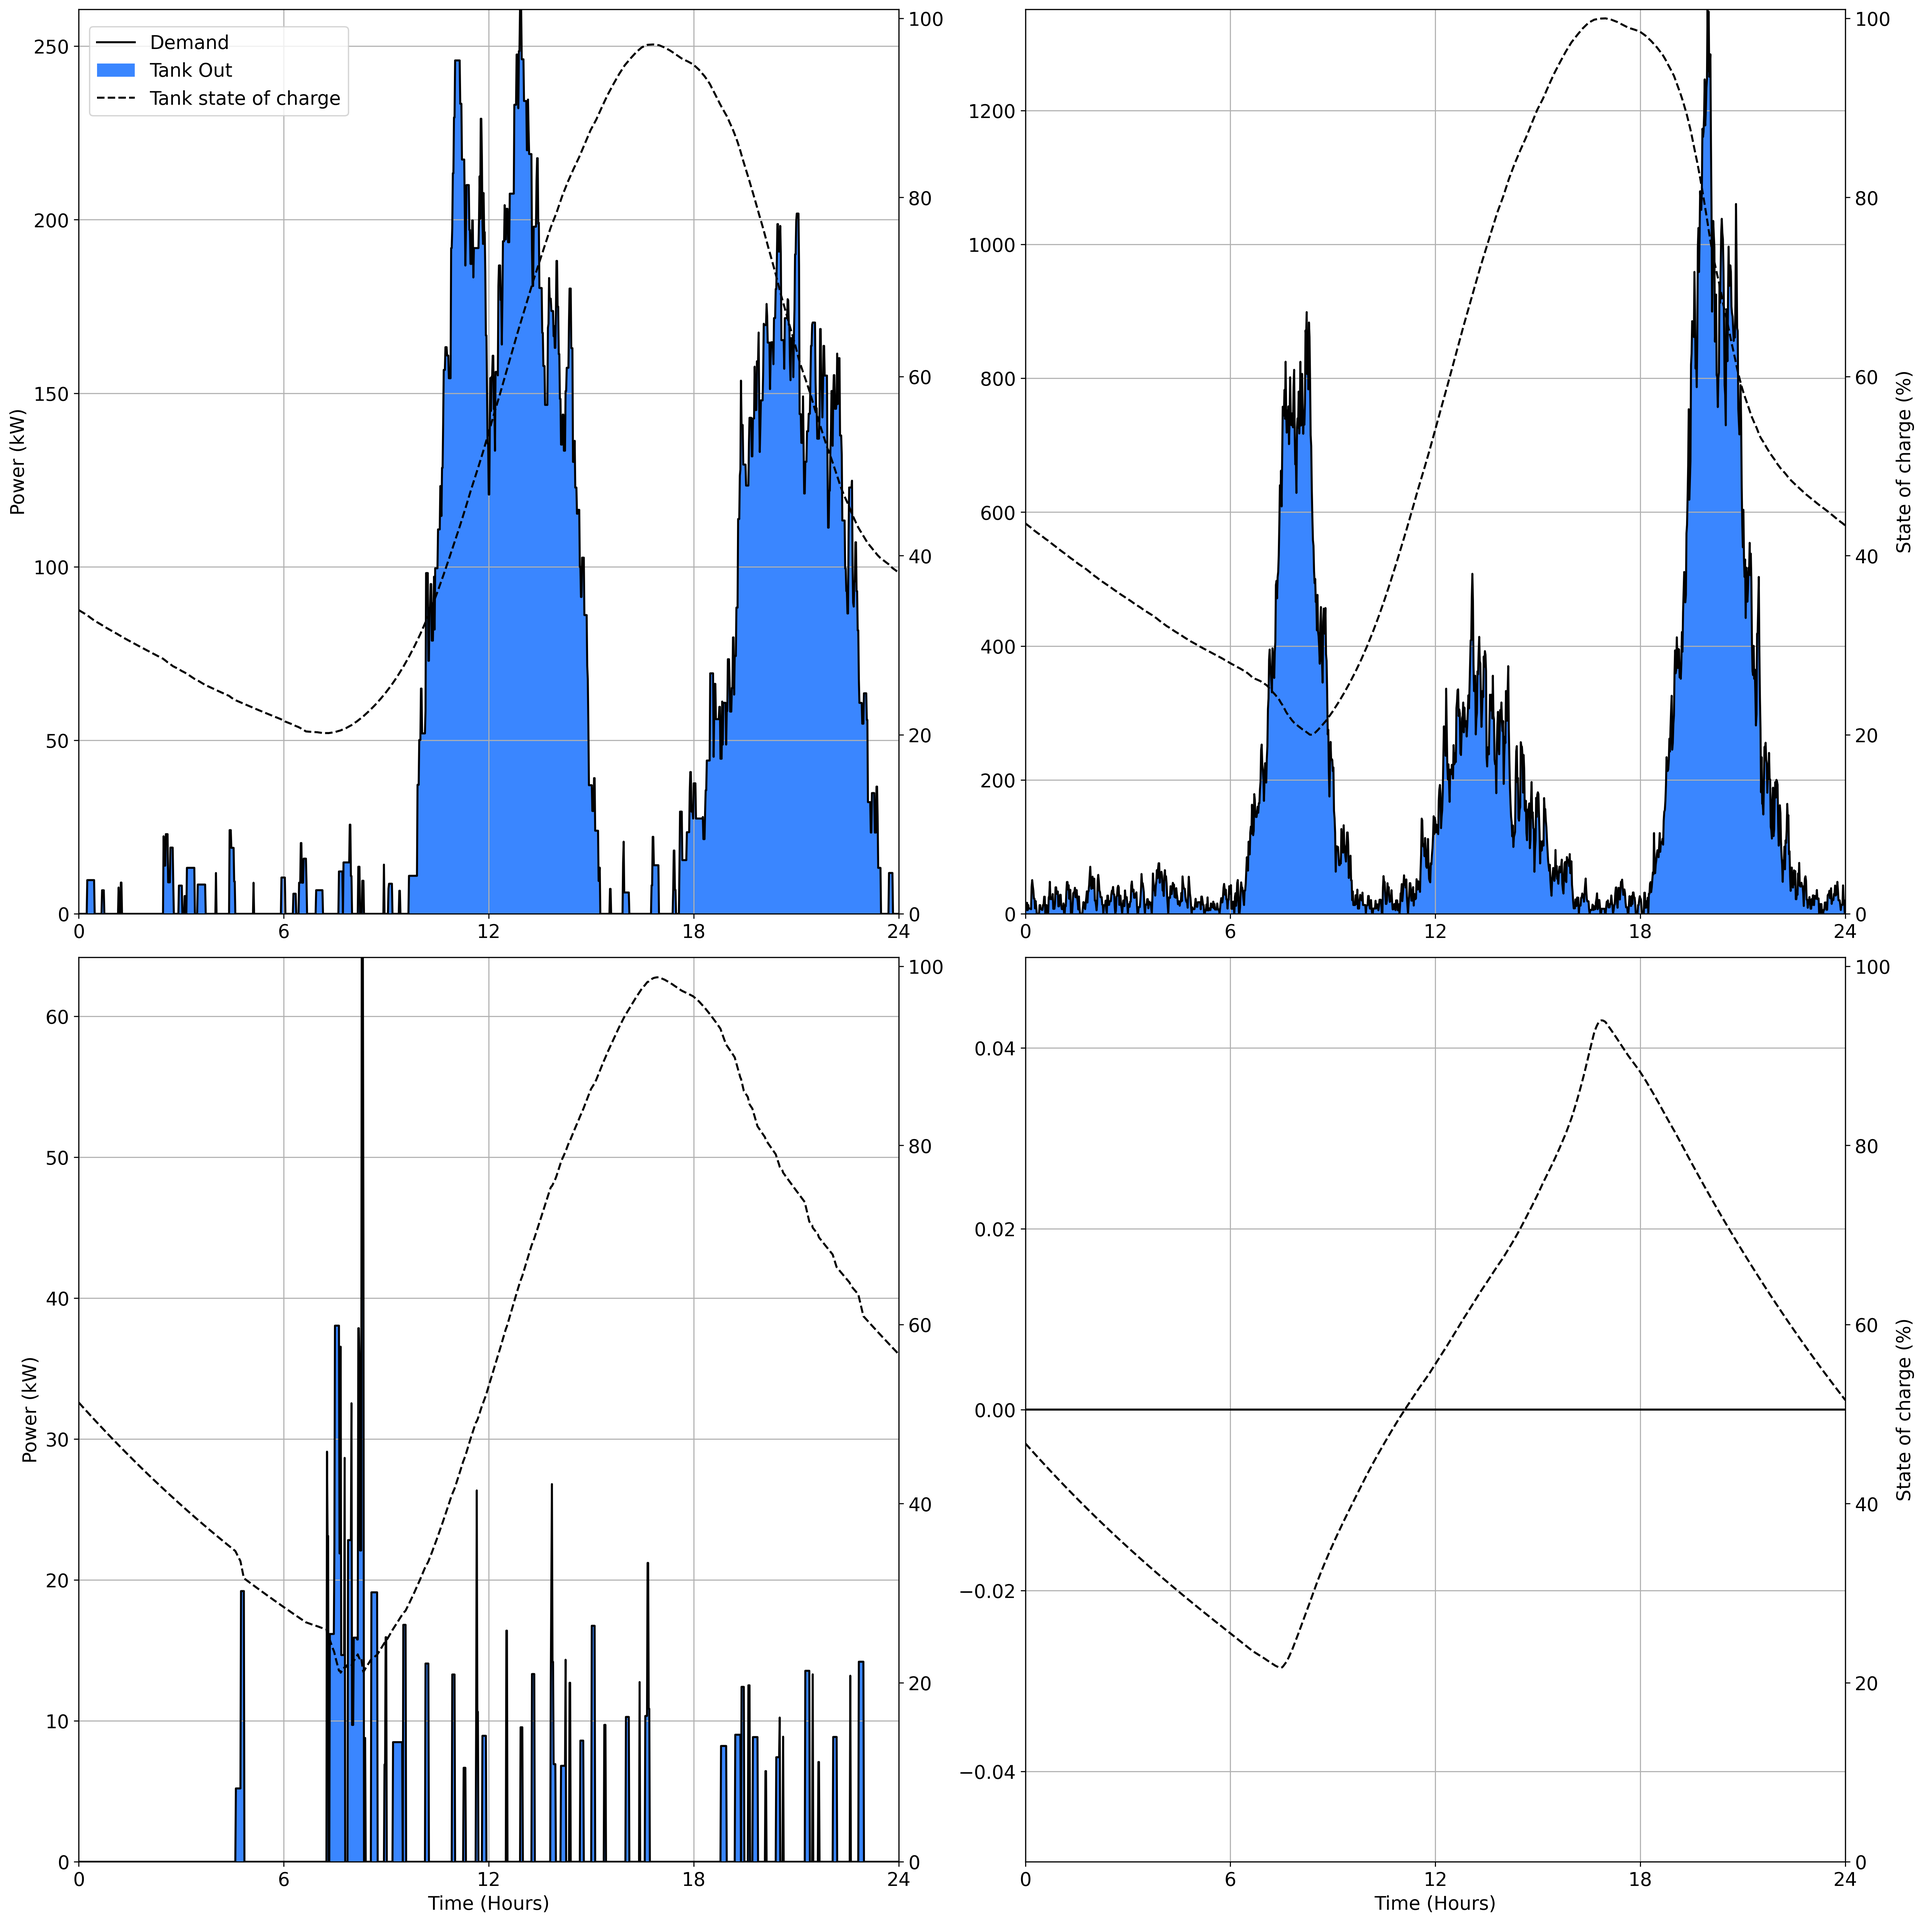
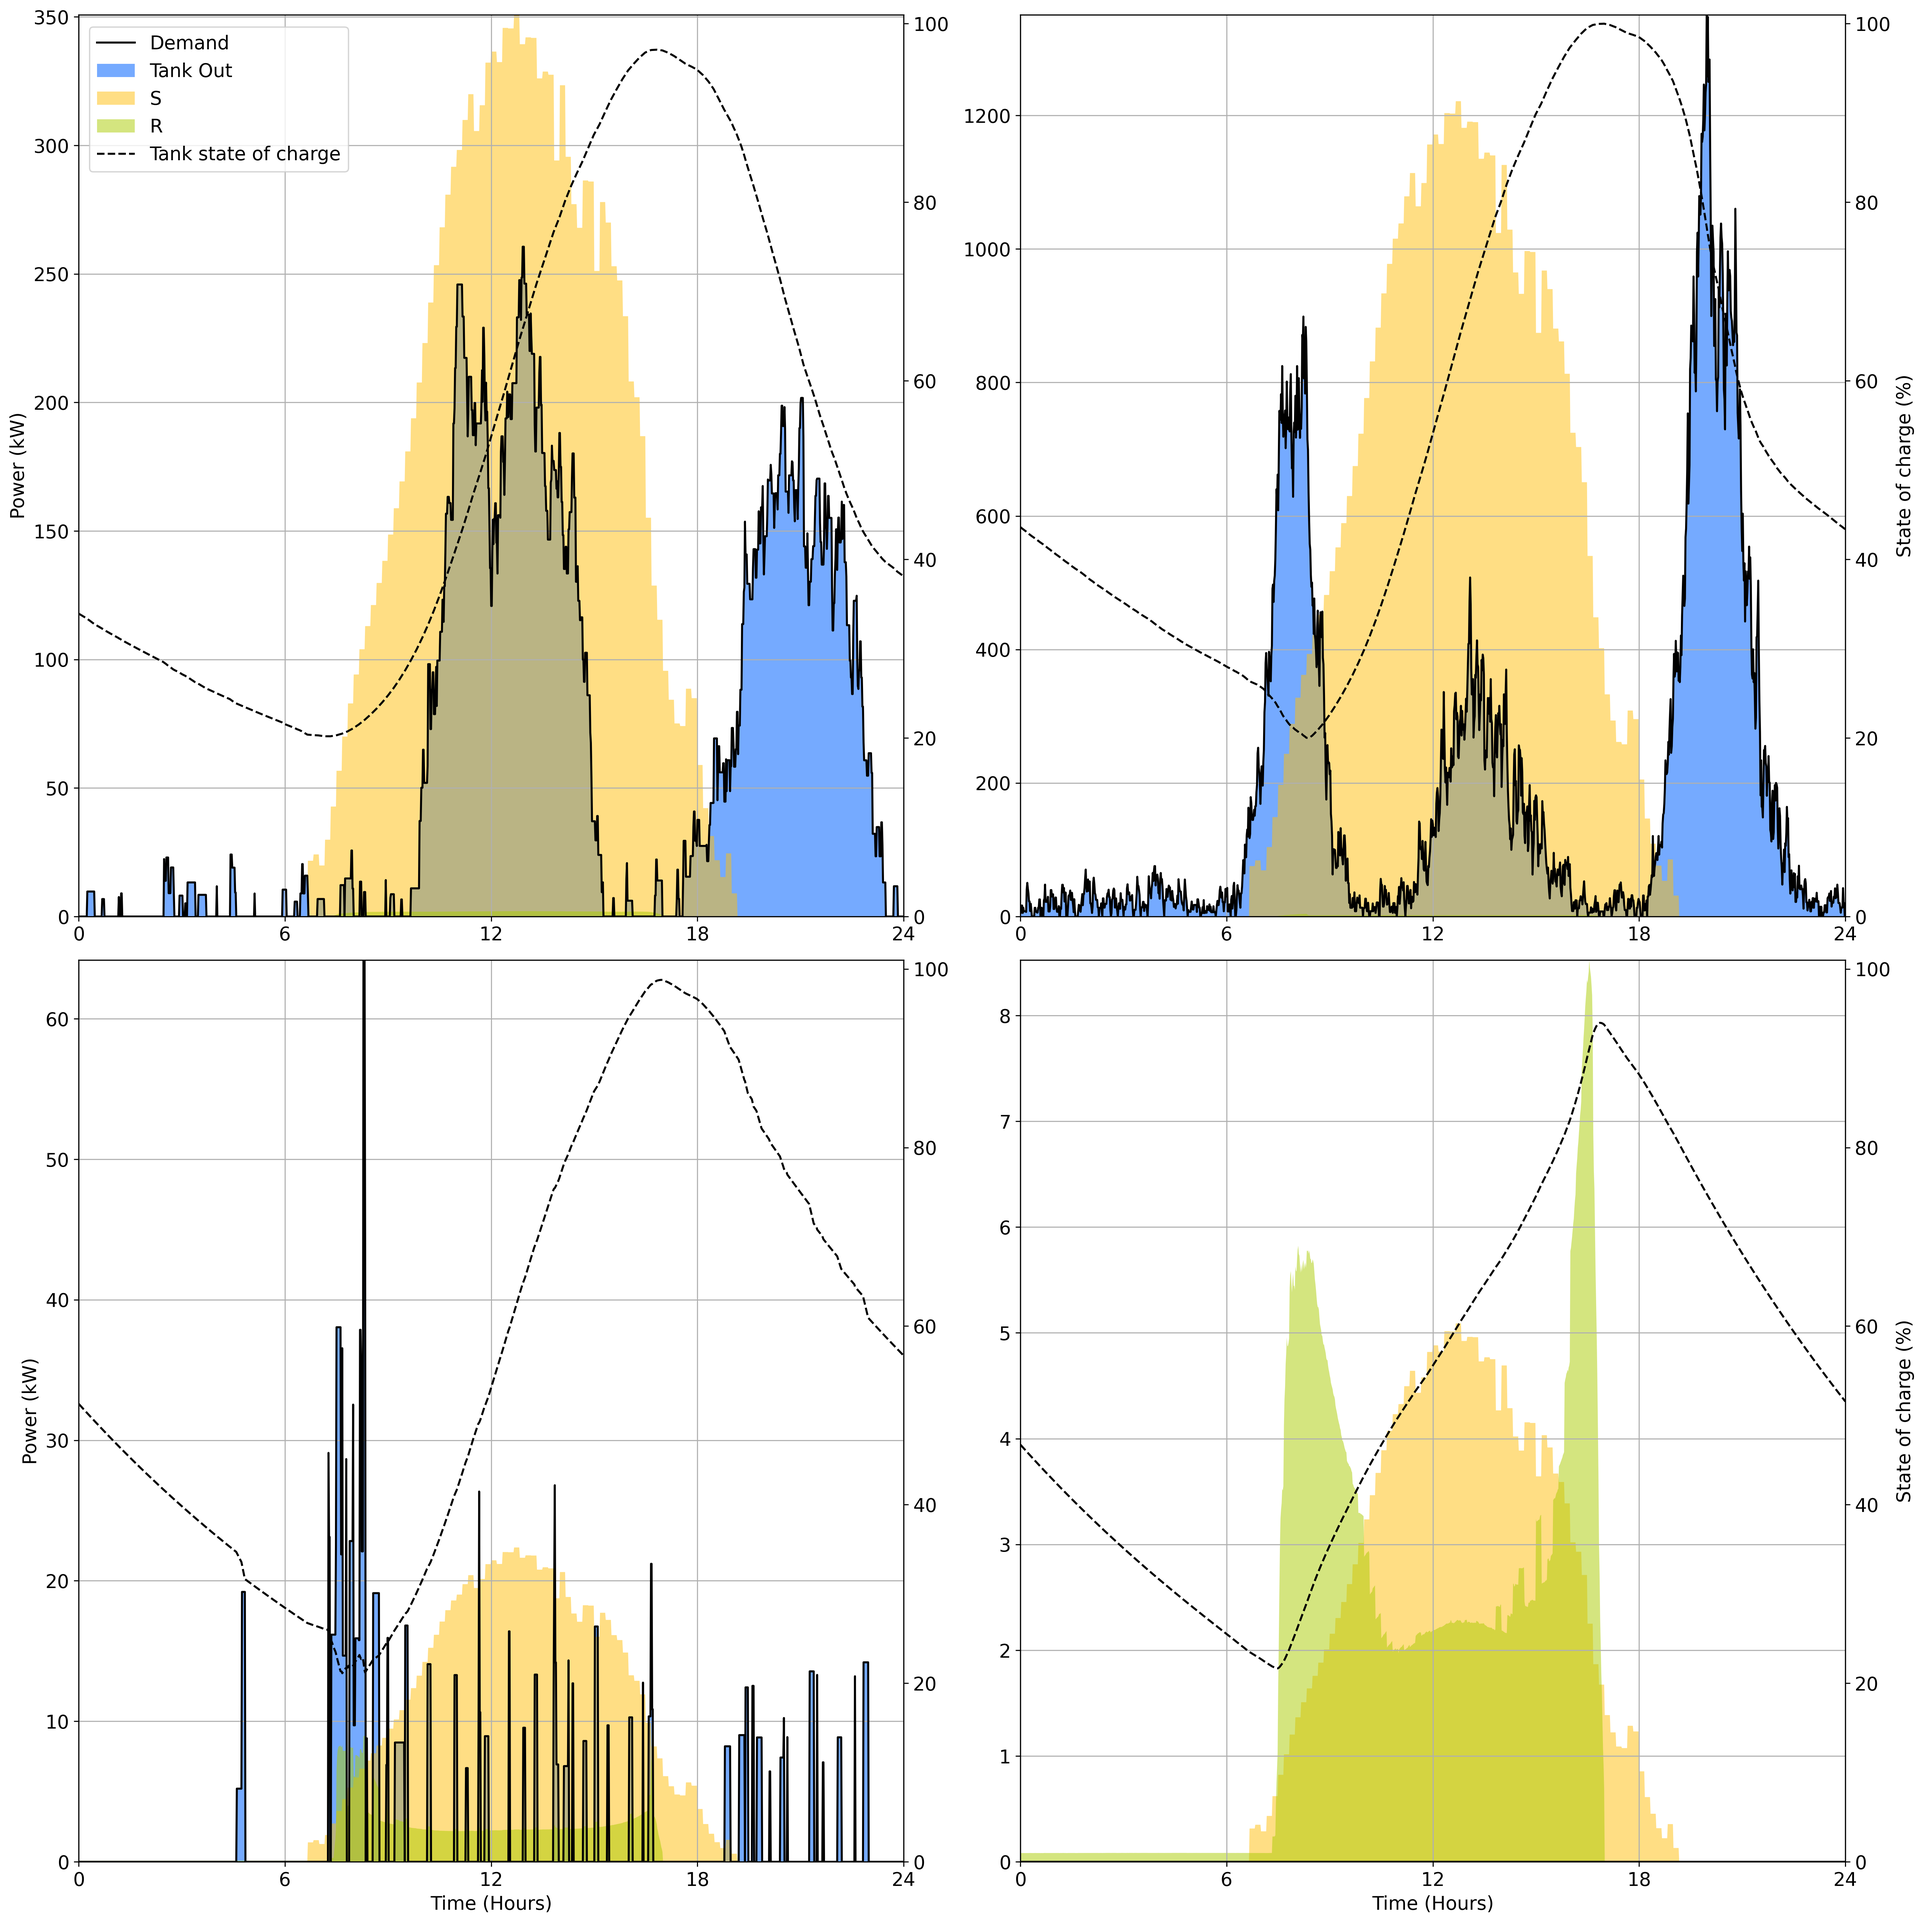
updated d graph

diff --git a/Scenarios/d_Multi-Energy-System/PlotMode.py b/Scenarios/d_Multi-Energy-System/PlotMode.py
@@ -264,7 +264,6 @@ def ThermalDispatch(nC,nS,PlotScenario,PlotStartDate,PlotEndDate,PlotResolution)
         y_Demand      = TimeSeries['Th']['Sc'+str(PlotScenario)]['Class'+str(c)].iloc[PlotStartDate:PlotEndDate,0].values
         y_Tank_SOC    = TimeSeries['Th']['Sc'+str(PlotScenario)]['Class'+str(c)].iloc[PlotStartDate:PlotEndDate,-1].values/TankNominalCapacity*100   
         x_Plot = np.arange(len(y_Boiler))
-        
         deltaTank = y_Tank_Out - y_Demand
     
         for i in range(deltaTank.shape[0]):
@@ -288,13 +287,20 @@ def ThermalDispatch(nC,nS,PlotScenario,PlotStartDate,PlotEndDate,PlotResolution)
         ax2=axs[n_row[c-1],n_col[c-1]].twinx()
 
         "Plot"
-        axs[n_row[c-1],n_col[c-1]].stackplot(x_Plot, y_Stacked, labels=Labels, colors=Colors)
+        axs[n_row[c-1],n_col[c-1]].stackplot(x_Plot, y_Stacked, labels=Labels, colors=Colors, alpha=0.7)
+
         if c==1:
             axs[n_row[c-1],n_col[c-1]].plot(x_Plot, y_Demand, color='black', label='Demand')
+            axs[n_row[c-1],n_col[c-1]].stackplot(x_Plot, y_SC, labels='Solar Collector', colors='#ffbe0b', alpha=0.5)
+            axs[n_row[c-1],n_col[c-1]].stackplot(x_Plot, y_ElResProd, labels='Resistance', colors='#aacc00', alpha=0.5)
+
             ax2.plot(x_Plot, y_Tank_SOC, '--', color='black', label='Tank state of charge')
         else:
             axs[n_row[c-1],n_col[c-1]].plot(x_Plot, y_Demand, color='black', label='_nolegend_')
             ax2.plot(x_Plot, y_Tank_SOC, '--', color='black', label='_nolegend_')
+            axs[n_row[c-1],n_col[c-1]].stackplot(x_Plot, y_SC, labels='_nolegend_', colors='#ffbe0b', alpha=0.5)
+            axs[n_row[c-1],n_col[c-1]].stackplot(x_Plot, y_ElResProd, labels='_nolegend_', colors='#aacc00', alpha=0.5)
+
 
         if c==1 or c==3:
             axs[n_row[c-1],n_col[c-1]].set_ylabel('Power (kW)', fontsize=14)
